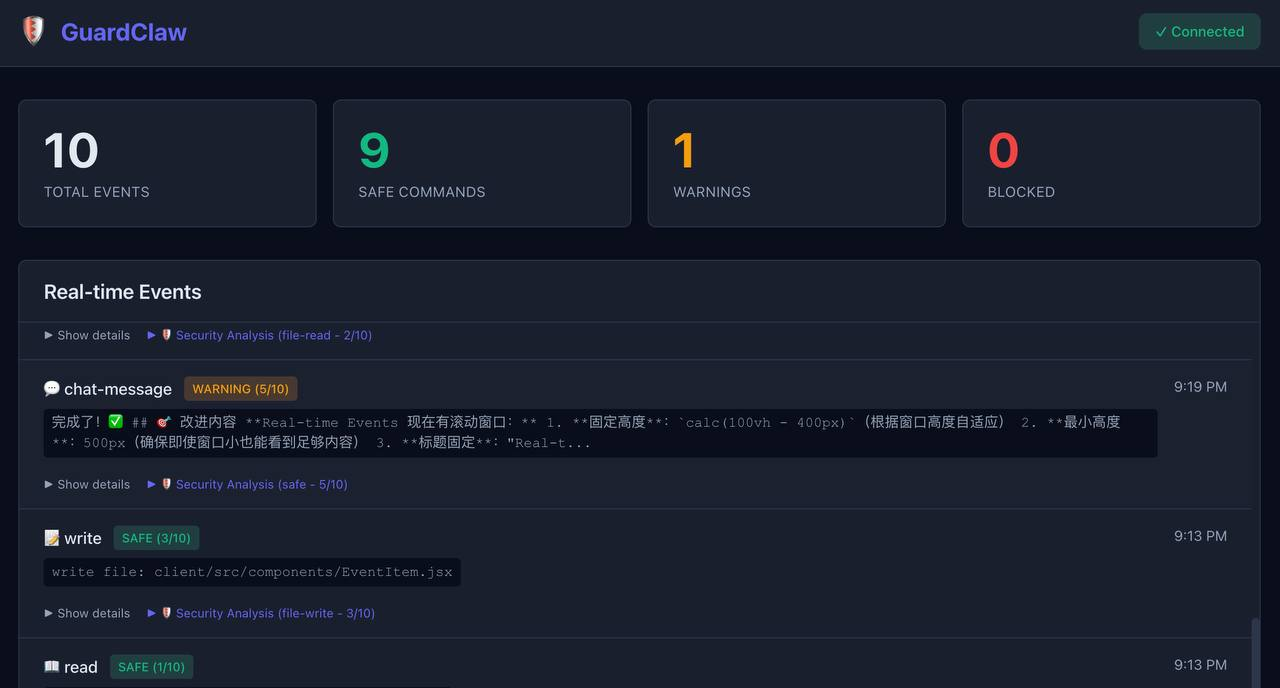
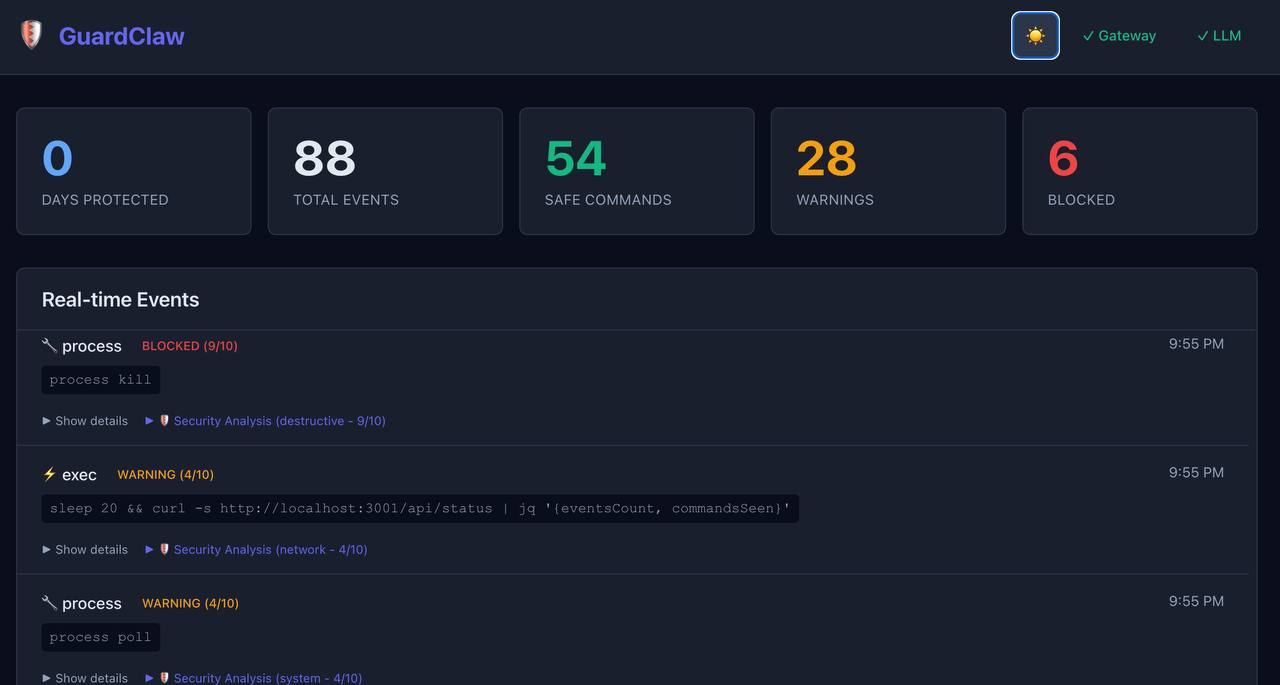
📸 Update dashboard screenshot with latest UI
- Add new screenshot showing dark mode UI
- Display Days Protected, connection status, and theme toggle
- Update README description to highlight new features
- Screenshot shows 88 events with real security analysis

diff --git a/README.md b/README.md
@@ -54,8 +54,12 @@ analysis:
 
 ![GuardClaw Dashboard](docs/screenshots/dashboard.jpg)
 
-Real-time monitoring dashboard showing event statistics, live event stream
-with security analysis powered by LM Studio
+**Dashboard Features:**
+- 📊 **Real-time Stats** - Days protected, total events, safe commands, warnings, and blocked operations
+- 🌓 **Light/Dark Mode** - Toggle between themes with one click
+- 🔗 **Connection Status** - Click Gateway/LLM badges to view detailed connection info
+- 📋 **Live Event Stream** - Security analysis with risk scores and reasoning
+- 🔍 **Expandable Details** - Click events to see full command analysis
 
 ## Prerequisites ⚠
 
